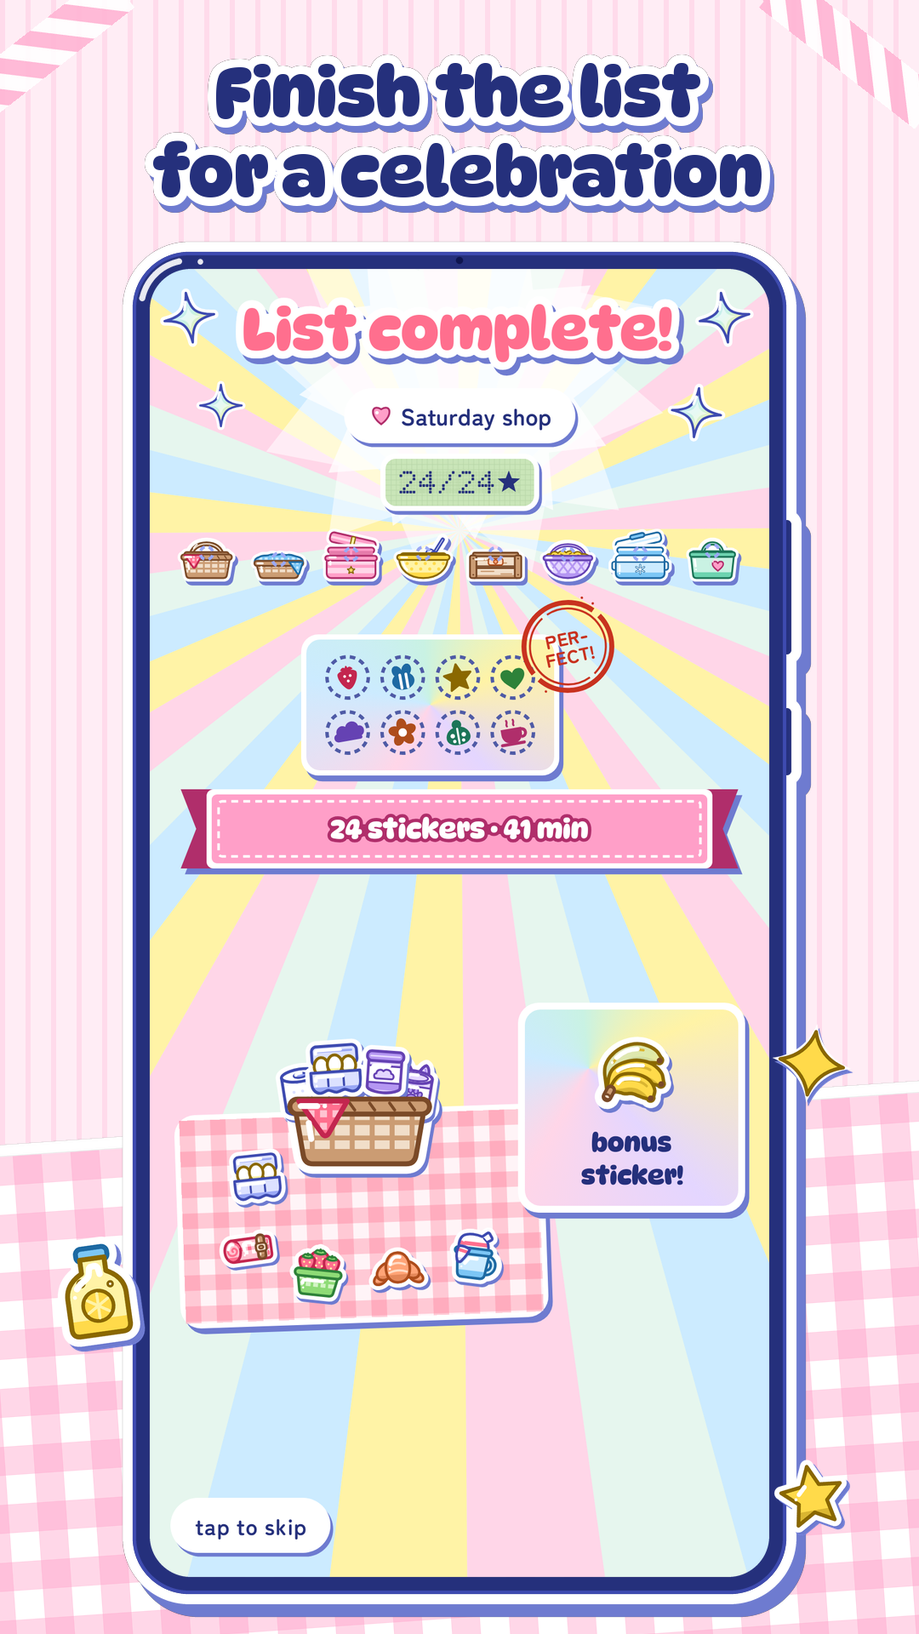
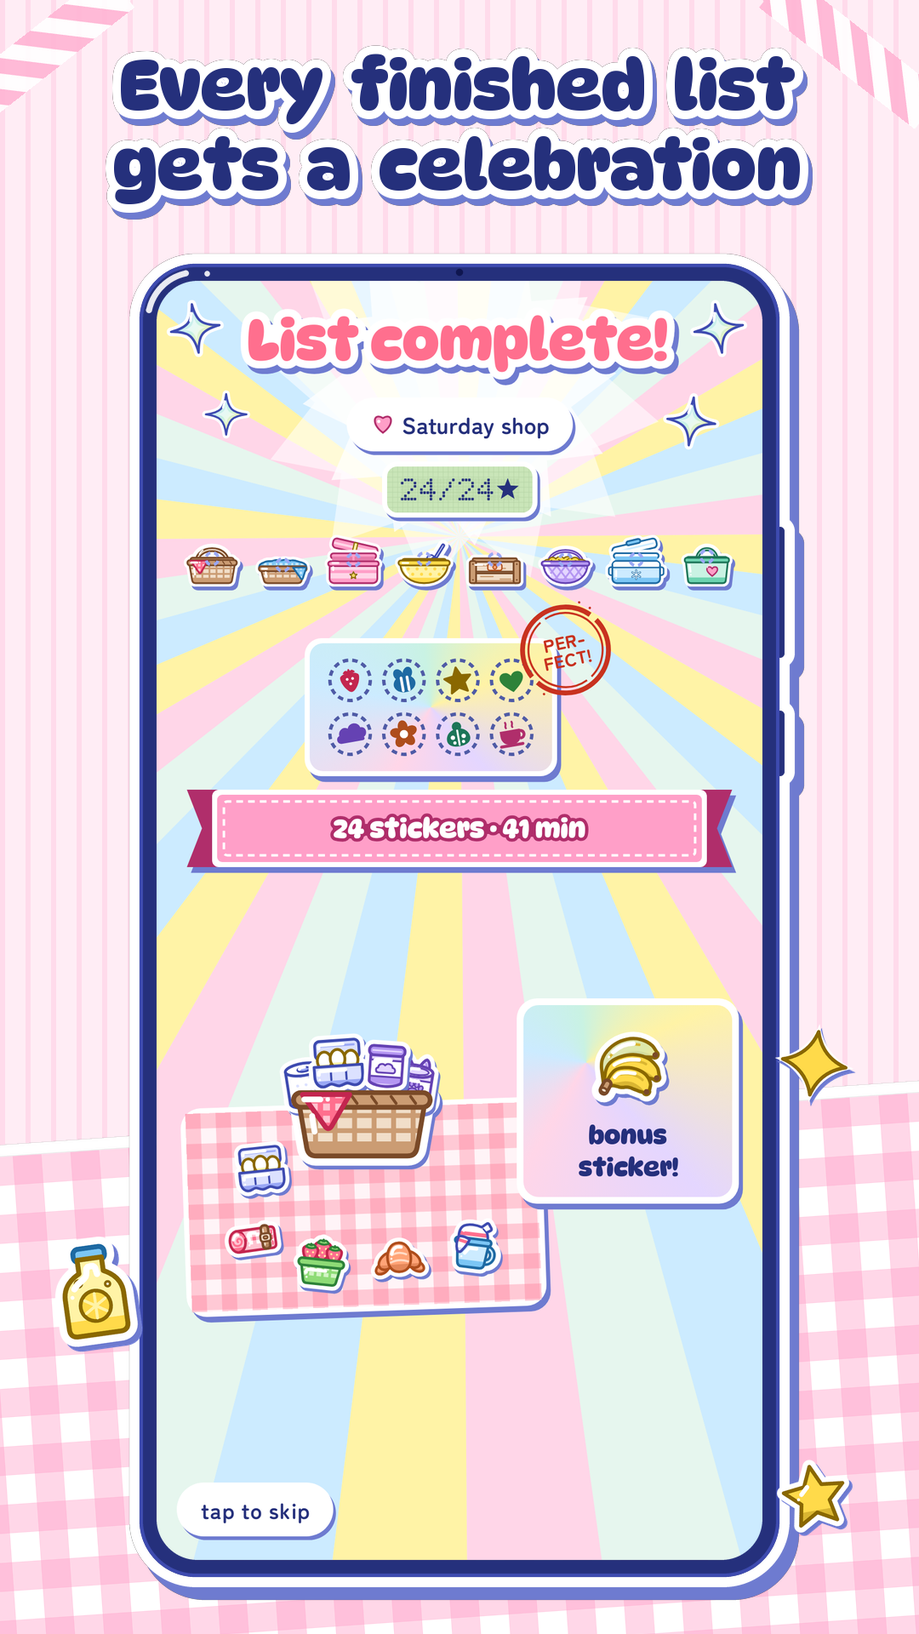
Store images: open word gaps, roomier layout, real sticker book, clearer listing
- Captions are laid out word by word with each space widened by 0.2 em, so the
  white stroke no longer joins neighbouring words. The width check measures the
  same layout.
- The phone is a little smaller and lower (screen 712 px wide, top at 310), so
  there are 40 px between the caption and the phone and 40 px below it.
- Decoration stickers stop 14 px short of the screen, leaving the bezel line.
- 03: the recipe window starts at the sheet's taped edge and ends between two
  lines of text, so the grey scrim band and the half-cut line are gone.
- 07: a deeper periwinkle backdrop for the night theme, and the holo sparkle in
  place of the moon.
- Captions reworded: "Recipes leave out what's in your pantry", "Every finished
  list gets a celebration", "Collect 200+ stickers in your album".
- Feature graphic: the row of stickers is replaced by the app's real trip
  sticker book (the book_full golden, cut out of its binder), taped onto the
  blanket, with a check that it stays 40 px from the edges.
- Full description: says that photos, voice notes and item names go to OpenAI,
  mentions the optional approximate-location permission, says up front which
  features need a key, uses "screen readers", and matches the 200+ count.
- README: the screenshots sit in two rows of four at 24 % so the captions can
  be read.

Claude-Session: https://claude.ai/code/session_01Vpb3GoPLjRj6tPR1LHwpfW

Changed region(s): [[0.0611, 0.0312, 0.9472, 1.0]]

diff --git a/design/store/make_store_images.py b/design/store/make_store_images.py
@@ -23,7 +23,7 @@ import sys
 from pathlib import Path
 import xml.etree.ElementTree as ET
 
-from PIL import Image, ImageChops, ImageDraw, ImageFont
+from PIL import Image, ImageChops, ImageDraw, ImageFilter, ImageFont
 
 HERE = Path(__file__).resolve().parent
 REPO = HERE.parents[1]
@@ -208,34 +208,53 @@ def _close_pinholes(mask, max_area):
     return out
 
 
+WORD_GAP = 0.2   # extra space between words, in em: the white stroke would otherwise close DynaPuff's narrow space
+
+
+def _words(f, line, halo, extra):
+    """Lay `line` out word by word, each space widened by `extra` px so the stroked words keep an open gap between
+    them (§2.7: "the gaps between words stay open"). Returns ([(word, pen x)], ink left, ink right), where the ink
+    edges are the stroked first and last words' bounding box edges, relative to a pen starting at 0."""
+    space = f.getlength(' ') + extra
+    placed, x = [], 0.0
+    for word in line.split(' '):
+        if word:
+            placed.append((word, x))
+            x += f.getlength(word)
+        x += space
+    first, last = placed[0], placed[-1]
+    left = first[1] + f.getbbox(first[0], stroke_width=halo)[0]
+    right = last[1] + f.getbbox(last[0], stroke_width=halo)[2]
+    return placed, left, right
+
+
 def puffy(lines, size, fill=BALLPOINT, stroke=WHITE, shadow=STICKER_SHADOW, fname='dynapuff_bold.ttf',
-          halo=None, shadow_off=None, leading=1.15, colours=None):
+          halo=None, shadow_off=None, leading=1.15, colours=None, word_gap=WORD_GAP):
     """Centred puffy lines as one RGBA image. `halo` is half the stroke (default 12.5 % of the size: a 6 dp stroke on
     a 24 sp title); the hard shadow is the stroked word at (+0.067, +0.092) x size (hs on a 24 sp title).
-    `colours` optionally gives a fill per line."""
+    Each space is widened by `word_gap` em so neighbouring words' strokes never touch. `colours` optionally gives a
+    fill per line."""
     f = font(fname, size)
     halo = round(size * 0.125) if halo is None else halo
+    extra = round(size * word_gap)
     sx, sy = shadow_off or (round(size * 0.067), round(size * 0.092))
     pad = halo + 4
-    widths, boxes = [], []
-    for ln in lines:
-        b = f.getbbox(ln, stroke_width=halo)
-        boxes.append(b)
-        widths.append(b[2] - b[0])
+    layouts = [_words(f, ln, halo, extra) for ln in lines]
+    widths = [right - left for _, left, right in layouts]
     line_h = round(size * leading)
     asc, desc = f.getmetrics()
-    w = max(widths) + 2 * pad + sx
+    w = math.ceil(max(widths)) + 2 * pad + sx
     h = line_h * (len(lines) - 1) + asc + desc + 2 * pad + sy
     stroke_mask = Image.new('L', (w, h), 0)
     fill_layer = Image.new('RGBA', (w, h), (0, 0, 0, 0))
     ds, df = ImageDraw.Draw(stroke_mask), ImageDraw.Draw(fill_layer)
-    for i, ln in enumerate(lines):
-        b = boxes[i]
-        x = pad + (max(widths) - widths[i]) / 2 - b[0]
+    for i, (placed, left, _) in enumerate(layouts):
+        x0 = pad + (max(widths) - widths[i]) / 2 - left
         y = pad + i * line_h
-        ds.text((x, y), ln, font=f, fill=255, stroke_width=halo, stroke_fill=255)
         c = (colours[i] if colours else fill)
-        df.text((x, y), ln, font=f, fill=c)
+        for word, wx in placed:
+            ds.text((round(x0 + wx), y), word, font=f, fill=255, stroke_width=halo, stroke_fill=255)
+            df.text((round(x0 + wx), y), word, font=f, fill=c)
     stroke_mask = _close_pinholes(stroke_mask, max_area=round((halo * 1.6) ** 2))
     out = Image.new('RGBA', (w, h), (0, 0, 0, 0))
     out.paste(Image.new('RGBA', (w, h), rgb(shadow)), (sx, sy), stroke_mask)
@@ -244,11 +263,12 @@ def puffy(lines, size, fill=BALLPOINT, stroke=WHITE, shadow=STICKER_SHADOW, fnam
     return out
 
 
-def text_width(s, size, fname='dynapuff_bold.ttf', halo=None):
+def text_width(s, size, fname='dynapuff_bold.ttf', halo=None, word_gap=WORD_GAP):
+    """The stroked width of one puffy line, laid out as `puffy` lays it out (with the widened word gaps)."""
     f = font(fname, size)
     halo = round(size * 0.125) if halo is None else halo
-    b = f.getbbox(s, stroke_width=halo)
-    return b[2] - b[0]
+    _, left, right = _words(f, s, halo, round(size * word_gap))
+    return math.ceil(right - left)
 
 
 # ---------------------------------------------------------------------------------------------------------------------
@@ -321,8 +341,8 @@ def blanket(w, h, colour, angle, border=14, radius=22, shadow_off=(12, 16)):
 # The phone: a generic rounded phone, die-cut like a sticker (white border, hard periwinkle shadow), with the
 # stickers' bonbon gloss on its frame
 # ---------------------------------------------------------------------------------------------------------------------
-SCREEN_W = 728
-SCREEN_H = round(SCREEN_W * 2280 / 1080)   # 1537
+SCREEN_W = 712
+SCREEN_H = round(SCREEN_W * 2280 / 1080)   # 1503
 BEZEL = 20
 BODY_R = 66
 SCREEN_R = 48
@@ -410,13 +430,17 @@ def screen_from(golden, crop=None):
 # The phone screenshots
 # ---------------------------------------------------------------------------------------------------------------------
 CAPTION_SIZE = 82
-CAPTION_TOP = 44
-PHONE_TOP = 296
+CAPTION_TOP = 36
+PHONE_TOP = 310
 CAPTION_MAX_W = 1000
 
-# Each: file stem, caption (two lines), golden, optional crop, family (backdrop colour), tape, decor stickers.
+# Each: file stem, caption (two lines), golden, optional crop, family (backdrop colour), optional dusk (a deeper
+# backdrop, for the night theme), tape, decor stickers.
+# crop: 03 uses a 1080 x 2280 window of the tall recipe render (recorded on an 1800 dp phone). It starts 35 px above
+# the sheet's taped top edge (a strip of the dimmed scrim, as under a phone's status bar) and ends at y 2990, in the
+# blank between 'White sugar' and its size line, so no line of text is cut.
 # Decor: (drawable or 'sparkle:<family>', size px, side 'L' / 'R', centre y, angle). A sticker sits in the margin
-# beside the phone, its art overlapping the phone's frame by at most the bezel and never reaching the screen
+# beside the phone, its art overlapping the phone's frame but stopping DECOR_GAP px short of the screen
 # (`screenshot` checks the pixels).
 SHOTS = [
     dict(stem='01_list', lines=['Your list, sorted', 'aisle by aisle'], golden='list_midtrip_day.png', fam='mint',
@@ -426,30 +450,33 @@ SHOTS = [
          tape='dots',
          decor=[('sk_d_camera', 160, 'L', 1520, 8), ('sk_d_cassette', 150, 'R', 1250, -8), ('sk_d_heart', 104, 'R', 1760, 10)]),
     dict(stem='03_recipe', lines=['Turn a recipe into', 'a shopping list'], golden='recipe_card_day.png',
-         crop=(0, 614, 1080, 614 + 2280), fam='lemon', tape='gingham',
+         crop=(0, 710, 1080, 710 + 2280), fam='lemon', tape='gingham',
          decor=[('sk_i_eggs', 168, 'L', 1520, 8), ('sk_i_flour', 150, 'R', 1250, -8), ('sk_i_maple_syrup', 124, 'R', 1760, 10)]),
-    dict(stem='04_pantry', lines=['Recipes skip what', 'is in your pantry'], golden='pantry_few.png', fam='peach',
+    dict(stem='04_pantry', lines=['Recipes leave out', 'what\u2019s in your pantry'], golden='pantry_few.png', fam='peach',
          tape='mint',
          decor=[('sk_i_honey', 164, 'L', 1520, 8), ('sk_i_salt', 132, 'R', 1250, -8), ('sk_i_olive_oil', 128, 'R', 1760, 10)]),
-    dict(stem='05_celebration', lines=['Finish the list', 'for a celebration'], golden='celebration_strip_day_9500.png',
+    dict(stem='05_celebration', lines=['Every finished list', 'gets a celebration'], golden='celebration_strip_day_9500.png',
          fam='sakura', tape='sakura',
          decor=[('sk_i_lemonade', 150, 'L', 1520, 8), ('sparkle:lemon', 112, 'R', 1250, -8), ('sk_d_star', 104, 'R', 1760, 10)]),
-    dict(stem='06_album', lines=['Collect 216 stickers', 'in your album'], golden='album_picnic_day.png', fam='grape',
+    dict(stem='06_album', lines=['Collect 200+ stickers', 'in your album'], golden='album_picnic_day.png', fam='grape',
          tape='gingham',
          decor=[('sk_d_ribbon', 160, 'L', 1520, 8), ('sk_d_flower', 128, 'R', 1250, -8), ('sk_d_heart', 104, 'R', 1760, 10)]),
     dict(stem='07_glow', lines=['Glow-in-the-dark', 'night theme'], golden='list_midtrip_glow.png', fam='periwinkle',
-         tape='dots',
-         decor=[('sk_d_moon', 156, 'L', 1520, 8), ('sk_d_glowstar', 120, 'R', 1250, -8), ('sk_d_glowstar', 92, 'R', 1760, 14)]),
+         dusk=True, tape='dots',
+         decor=[('sk_d_kira', 150, 'L', 1520, 8), ('sk_d_glowstar', 120, 'R', 1250, -8), ('sk_d_glowstar', 92, 'R', 1760, 14)]),
     dict(stem='08_surprises', lines=['18 little surprises', 'hidden in the app'], golden='egg_18_end_day.png',
          fam='melon', tape='mint',
          decor=[('sk_d_cat', 172, 'L', 1520, 6), ('sk_d_umbrella', 136, 'R', 1250, -8), ('sk_d_sun', 112, 'R', 1760, 10)]),
 ]
-DECOR_GAP = 3      # px between a decor sticker's art and the screen's edge
+DECOR_GAP = 14     # px between a decor sticker's art and the screen's edge: it overlaps the frame, never the bezel line
 
 
-def backdrop(fam):
+def backdrop(fam, dusk=False):
+    """The image's ground. `dusk` deepens the pastel toward the family's mid tone, for the night-theme image."""
     pastel, mid = FAMILIES[fam][0], FAMILIES[fam][1]
-    if fam == 'mint':
+    if dusk:
+        base, stripe = mix(mid, WHITE, 0.45), mix(mid, WHITE, 0.25)
+    elif fam == 'mint':
         base, stripe = rgb(DAY_BINDER), rgb(DAY_STRIPE)     # the Day binder itself
     else:
         base, stripe = mix(pastel, WHITE, 0.55), mix(pastel, WHITE, 0.12)
@@ -472,7 +499,7 @@ def decor_image(spec):
 
 
 def screenshot(shot):
-    canvas = backdrop(shot['fam'])
+    canvas = backdrop(shot['fam'], shot.get('dusk', False))
     # washi at the two top corners, as if the page were taped into a scrapbook
     paste(canvas, washi(shot['tape'], 250, angle=38), -66, -40)
     paste(canvas, washi(shot['tape'], 250, angle=-38), W - 196, -40)
@@ -527,6 +554,78 @@ def pad_patch(text, size, fname='zen_maru_gothic_bold.ttf', colour=BALLPOINT, pa
 
 
 FEATURE_TAGLINE = 'Your grocery list, as a sticker book'
+BOOK_GOLDEN = 'book_full.png'   # the trip's sticker book, full: date tag, stamp card and sticker grid
+
+
+def book_strip(width, angle=0.0):
+    """The trip's sticker book as the app draws it (the BOOK_GOLDEN render), cut out of the binder it was recorded on,
+    `width` px wide and turned by `angle` degrees.
+
+    The render's ground is the Day binder's pinstripes, which run top to bottom, so row 0 gives each column's ground
+    colour. The ground connected to the image's edge becomes transparent; on the anti-aliased rim, each pixel is
+    split back into the book's edge colour (its white die-cut border or its periwinkle hard shadow) and an alpha."""
+    im = Image.open(GOLDENS / BOOK_GOLDEN).convert('RGB')
+    w, h = im.size
+    src = im.load()
+    ground = [src[x, 0] for x in range(w)]
+    cand = Image.new('L', (w, h), 0)
+    c = cand.load()
+    for y in range(h):
+        for x in range(w):
+            if src[x, y] == ground[x]:
+                c[x, y] = 255
+    framed = Image.new('L', (w + 2, h + 2), 255)
+    framed.paste(cand, (1, 1))
+    ImageDraw.floodfill(framed, (0, 0), 128)
+    outside = framed.crop((1, 1, w + 1, h + 1)).point(lambda v: 255 if v == 128 else 0)
+    rim = ImageChops.subtract(outside.filter(ImageFilter.MaxFilter(5)), outside)
+    out = im.convert('RGBA')
+    o, r, op = outside.load(), rim.load(), out.load()
+    edges = (rgb(WHITE), rgb(STICKER_SHADOW))
+    for y in range(h):
+        for x in range(w):
+            if o[x, y]:
+                op[x, y] = (0, 0, 0, 0)
+            elif r[x, y]:
+                p, b = src[x, y], ground[x]
+                best = None
+                for f in edges:
+                    d = [fi - bi for fi, bi in zip(f, b)]
+                    a = sum((pi - bi) * di for pi, bi, di in zip(p, b, d)) / sum(di * di for di in d)
+                    a = min(1.0, max(0.0, a))
+                    err = sum((pi - (bi + a * di)) ** 2 for pi, bi, di in zip(p, b, d))
+                    if best is None or err < best[0]:
+                        best = (err, f, a)
+                err, f, a = best
+                if err < 300:            # explained by a blend of the ground and an edge colour
+                    op[x, y] = f + (round(a * 255),)
+    out = out.crop(out.getbbox())
+    big = out.resize((width * 2, round(out.height * width * 2 / out.width)), Image.LANCZOS)
+    if angle:
+        big = big.rotate(angle, resample=Image.BICUBIC, expand=True)
+    return big.resize((big.width // 2, big.height // 2), Image.LANCZOS)
+
+
+def place_centred(canvas, img, cx, cy):
+    """Paste `img` with its art's bounding box centred on (cx, cy); returns the art's box on the canvas."""
+    x0, y0, x1, y1 = img.getbbox()
+    x, y = round(cx - (x0 + x1) / 2), round(cy - (y0 + y1) / 2)
+    canvas.alpha_composite(img, (x, y))
+    return x + x0, y + y0, x + x1, y + y1
+
+
+FG_MARGIN = 40   # nothing that matters comes nearer the feature graphic's edges than this
+# Layout of the feature graphic: the wordmark's top, the gap under it to the tagline, the blanket's top, and the
+# sticker book's width, centre y and turn (anticlockwise), its two tapes and the stickers laid beside it.
+FG_WORDMARK_Y = 30
+FG_TAG_GAP = 4
+FG_BLANKET_Y = 300
+FG_BOOK_W = 620
+FG_BOOK_CY = 372
+FG_BOOK_ANGLE = 2
+FG_TAPE_TL = (22, 18)       # tape centres from the book's top-left and (negative) bottom-right art corners
+FG_TAPE_BR = (-22, -20)
+FG_STICKERS = (('sk_i_strawberry', 118, 150, 402, 10), ('sk_i_lemonade', 100, 884, 384, -12))
 
 
 def feature_graphic():
@@ -534,28 +633,34 @@ def feature_graphic():
     # washi at the top corners, as on the screenshots
     paste(im, washi('sakura', 180, dp=2.4, angle=34), -52, -34)
     paste(im, washi('sakura', 180, dp=2.4, angle=-34), FG_W - 140, -34)
-    # a gingham blanket along the bottom with a few stickers laid out on it
+    # a gingham blanket along the bottom
     bl = blanket(1240, 300, FAMILIES['strawberry'][1], angle=-2.5, border=10, radius=16, shadow_off=(8, 11))
-    paste(im, bl, -110, 372)
-    for name, px, cx, cy, ang in (('sk_i_strawberry', 104, 112, 420, 6), ('sk_i_banana', 90, 245, 434, -8),
-                                  ('sk_i_milk_bag', 84, 378, 438, 4), ('sk_i_apple', 84, 512, 440, -4),
-                                  ('sk_i_croissant', 90, 646, 436, -6), ('sk_i_lemonade', 82, 779, 430, 6),
-                                  ('sk_i_eggs', 92, 912, 424, -6)):
-        st = sticker(name, px, ang)
-        x0, y0, x1, y1 = st.getbbox()
-        paste(im, st, cx - (x0 + x1) / 2, cy - (y0 + y1) / 2)
+    paste(im, bl, -110, FG_BLANKET_Y)
+    # the trip's real sticker book laid on the blanket, taped down at two corners
+    book = book_strip(FG_BOOK_W, angle=FG_BOOK_ANGLE)
+    box = place_centred(im, book, FG_W / 2, FG_BOOK_CY)
+    for corner in (FG_TAPE_TL, FG_TAPE_BR):
+        tape = washi('sakura', 78, dp=1.7, angle=44)
+        cx = box[0] + corner[0] if corner[0] >= 0 else box[2] + corner[0]
+        cy = box[1] + corner[1] if corner[1] >= 0 else box[3] + corner[1]
+        place_centred(im, tape, cx, cy)
+    # a few stickers on the blanket beside it
+    for name, px, cx, cy, ang in FG_STICKERS:
+        place_centred(im, sticker(name, px, ang), cx, cy)
     # the wordmark with its twinkles, and the tagline on a pad patch
     wm = wordmark(98)
     tw = sparkle(58, FAMILIES['lemon'][1], FAMILIES['lemon'][3])
     star = sticker('sk_d_star', 44)
     group_w = wm.width + 50
     x = (FG_W - group_w) / 2
-    y = 96
+    y = FG_WORDMARK_Y
     paste(im, wm, x, y)
     paste(im, tw, x + wm.width - 20, y - 4)
     paste(im, star, x + wm.width + 16, y + 64)
     tag = pad_patch(FEATURE_TAGLINE, 30)
-    paste(im, tag, (FG_W - tag.width) / 2, y + wm.height + 14)
+    paste(im, tag, (FG_W - tag.width) / 2, y + wm.height + FG_TAG_GAP)
+    if box[0] < FG_MARGIN or box[1] < FG_MARGIN or box[2] > FG_W - FG_MARGIN or box[3] > FG_H - FG_MARGIN:
+        raise SystemExit(f'feature graphic: the sticker book {box} comes within {FG_MARGIN} px of the edge')
     return im.convert('RGB')
 
 

diff --git a/README.md b/README.md
@@ -9,14 +9,17 @@ A picniccore grocery list for Android, styled after early-90s magical-girl anime
 </p>
 
 <p align="center">
-  <a href="fastlane/metadata/android/en-US/images/phoneScreenshots/01_list.png"><img src="fastlane/metadata/android/en-US/images/phoneScreenshots/01_list.png" alt="Your list, sorted aisle by aisle" width="12%"></a>
-  <a href="fastlane/metadata/android/en-US/images/phoneScreenshots/02_snap.png"><img src="fastlane/metadata/android/en-US/images/phoneScreenshots/02_snap.png" alt="Write it, snap it, or say it out loud" width="12%"></a>
-  <a href="fastlane/metadata/android/en-US/images/phoneScreenshots/03_recipe.png"><img src="fastlane/metadata/android/en-US/images/phoneScreenshots/03_recipe.png" alt="Turn a recipe into a shopping list" width="12%"></a>
-  <a href="fastlane/metadata/android/en-US/images/phoneScreenshots/04_pantry.png"><img src="fastlane/metadata/android/en-US/images/phoneScreenshots/04_pantry.png" alt="Recipes skip what is in your pantry" width="12%"></a>
-  <a href="fastlane/metadata/android/en-US/images/phoneScreenshots/05_celebration.png"><img src="fastlane/metadata/android/en-US/images/phoneScreenshots/05_celebration.png" alt="Finish the list for a celebration" width="12%"></a>
-  <a href="fastlane/metadata/android/en-US/images/phoneScreenshots/06_album.png"><img src="fastlane/metadata/android/en-US/images/phoneScreenshots/06_album.png" alt="Collect 216 stickers in your album" width="12%"></a>
-  <a href="fastlane/metadata/android/en-US/images/phoneScreenshots/07_glow.png"><img src="fastlane/metadata/android/en-US/images/phoneScreenshots/07_glow.png" alt="Glow-in-the-dark night theme" width="12%"></a>
-  <a href="fastlane/metadata/android/en-US/images/phoneScreenshots/08_surprises.png"><img src="fastlane/metadata/android/en-US/images/phoneScreenshots/08_surprises.png" alt="18 little surprises hidden in the app" width="12%"></a>
+  <a href="fastlane/metadata/android/en-US/images/phoneScreenshots/01_list.png"><img src="fastlane/metadata/android/en-US/images/phoneScreenshots/01_list.png" alt="Your list, sorted aisle by aisle" width="24%"></a>
+  <a href="fastlane/metadata/android/en-US/images/phoneScreenshots/02_snap.png"><img src="fastlane/metadata/android/en-US/images/phoneScreenshots/02_snap.png" alt="Write it, snap it, or say it out loud" width="24%"></a>
+  <a href="fastlane/metadata/android/en-US/images/phoneScreenshots/03_recipe.png"><img src="fastlane/metadata/android/en-US/images/phoneScreenshots/03_recipe.png" alt="Turn a recipe into a shopping list" width="24%"></a>
+  <a href="fastlane/metadata/android/en-US/images/phoneScreenshots/04_pantry.png"><img src="fastlane/metadata/android/en-US/images/phoneScreenshots/04_pantry.png" alt="Recipes leave out what’s in your pantry" width="24%"></a>
+</p>
+
+<p align="center">
+  <a href="fastlane/metadata/android/en-US/images/phoneScreenshots/05_celebration.png"><img src="fastlane/metadata/android/en-US/images/phoneScreenshots/05_celebration.png" alt="Every finished list gets a celebration" width="24%"></a>
+  <a href="fastlane/metadata/android/en-US/images/phoneScreenshots/06_album.png"><img src="fastlane/metadata/android/en-US/images/phoneScreenshots/06_album.png" alt="Collect 200+ stickers in your album" width="24%"></a>
+  <a href="fastlane/metadata/android/en-US/images/phoneScreenshots/07_glow.png"><img src="fastlane/metadata/android/en-US/images/phoneScreenshots/07_glow.png" alt="Glow-in-the-dark night theme" width="24%"></a>
+  <a href="fastlane/metadata/android/en-US/images/phoneScreenshots/08_surprises.png"><img src="fastlane/metadata/android/en-US/images/phoneScreenshots/08_surprises.png" alt="18 little surprises hidden in the app" width="24%"></a>
 </p>
 
 The store images are drawn from the app's own screenshot tests, fonts and sticker art by [`design/store/make_store_images.py`](design/store/README.md), in the layout Google Play's publishing tools expect ([`fastlane/metadata/android/en-US`](fastlane/metadata/android/en-US)).

diff --git a/design/store/README.md b/design/store/README.md
@@ -6,7 +6,7 @@
 | File | Size | What |
 |---|---|---|
 | `phoneScreenshots/01_list.png` … `08_surprises.png` | 1080 × 1920, 24-bit, no alpha | a puffy caption, a real screen in a die-cut phone, a pinstripe and gingham backdrop with a few of the app's stickers |
-| `featureGraphic.png` | 1024 × 500, 24-bit, no alpha | the wordmark, a tagline on a pad patch, stickers on a gingham blanket |
+| `featureGraphic.png` | 1024 × 500, 24-bit, no alpha | the wordmark, a tagline on a pad patch, and the app's real trip sticker book taped onto a gingham blanket |
 | `icon.png` | 512 × 512, 32-bit | the adaptive launcher icon (background and foreground layers), cropped to the part a launcher shows |
 
 The text of the listing sits beside the images: `title.txt`, `short_description.txt` and `full_description.txt`.
@@ -25,18 +25,26 @@ same inputs always give the same files (with the same Pillow, cairosvg and Cairo
 ## Where everything comes from
 
 - **Screens:** the app's own golden renders in `app/src/test/screenshots` (1080 × 2280), scaled into the phone. The
-  recipe screenshot is a 1080 × 2280 window of the tall `recipe_card_day.png` render. Which golden each image uses,
-  its caption, backdrop colour, washi tape and decoration stickers are listed in `SHOTS` at the top of the script.
+  recipe screenshot is a 1080 × 2280 window of the tall `recipe_card_day.png` render (recorded on a 1800 dp phone):
+  it starts just above the sheet's taped top edge and ends between two lines of text. If that render changes, move
+  the window in `SHOTS`; a golden recorded at real phone height would remove the need for it. Which golden each
+  image uses, its caption, backdrop colour, washi tape and decoration stickers are listed in `SHOTS` at the top of
+  the script.
+- **Feature graphic:** the trip's sticker book is the `book_full.png` golden, cut out of the binder it is recorded on
+  (the pinstripe ground is made transparent and the anti-aliased rim is split back into the book's edge colour and
+  an alpha).
 - **Lettering:** DynaPuff and Zen Maru Gothic from `app/src/main/res/font`, drawn the way `PuffyText` draws titles: a
-  white stroke on a hard periwinkle shadow, with small gaps in the stroke closed.
+  white stroke on a hard periwinkle shadow, with small gaps in the stroke closed. Captions are laid out word by word
+  with each space widened by 0.2 em, so the gaps between words stay open under the stroke.
 - **Stickers, washi and the icon:** the generated VectorDrawables in `app/src/main/res/drawable` (from the sticker DSL
   in `design/stickers`), read back with `design/stickers/tools/vd2svg.py` and rasterised by cairosvg, so they match
   what the app draws.
 
 ## Rules the script checks
 
-- every caption has two lines and fits the width at the shared size;
+- every caption has two lines and fits the width at the shared size (measured with the widened word gaps);
 - no decoration sticker covers the screen or runs off the image;
+- the sticker book on the feature graphic keeps 40 px clear of its edges;
 - every screen is a full 1080 × 2280 golden (or a window of that size).
 
 Play's own limits: screenshots and the feature graphic must be opaque (no alpha), the screenshots' long side at most
